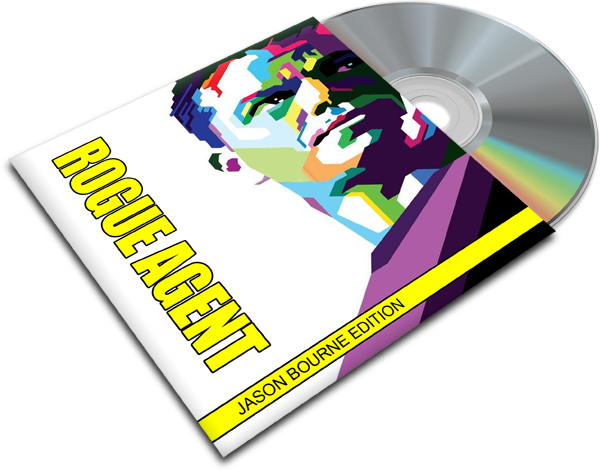
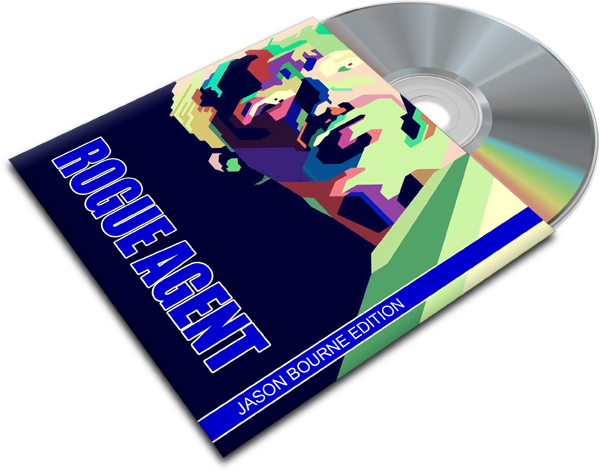
BOURNE

diff --git a/README.md b/README.md
@@ -2,7 +2,7 @@
   <img src="https://github.com/BroadbentT/ROGUE-AGENT/blob/main/picture0.png">
 </p>
 
-## TREADSTONE EDITION
+## JASON BOURNE EDITION
 
 **INSTALLATION INSTRUCTIONS**
 
